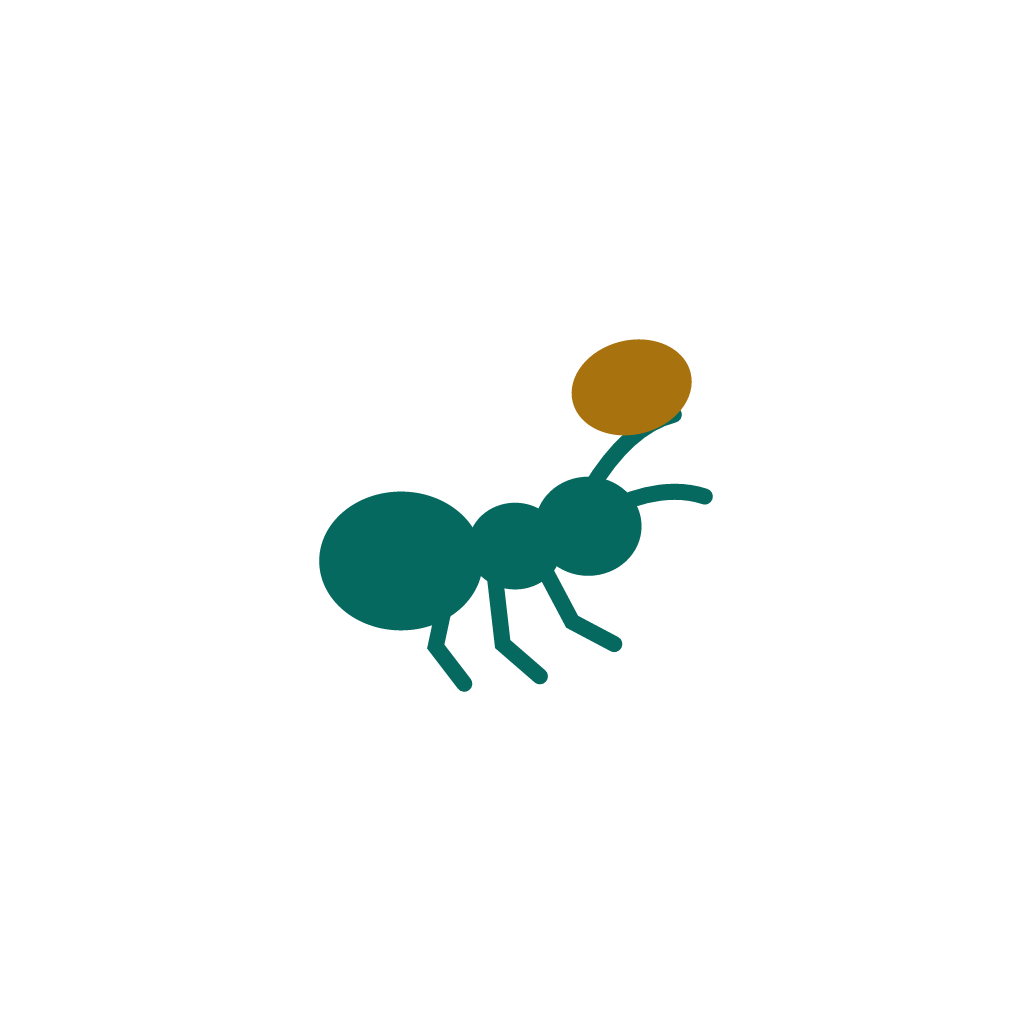
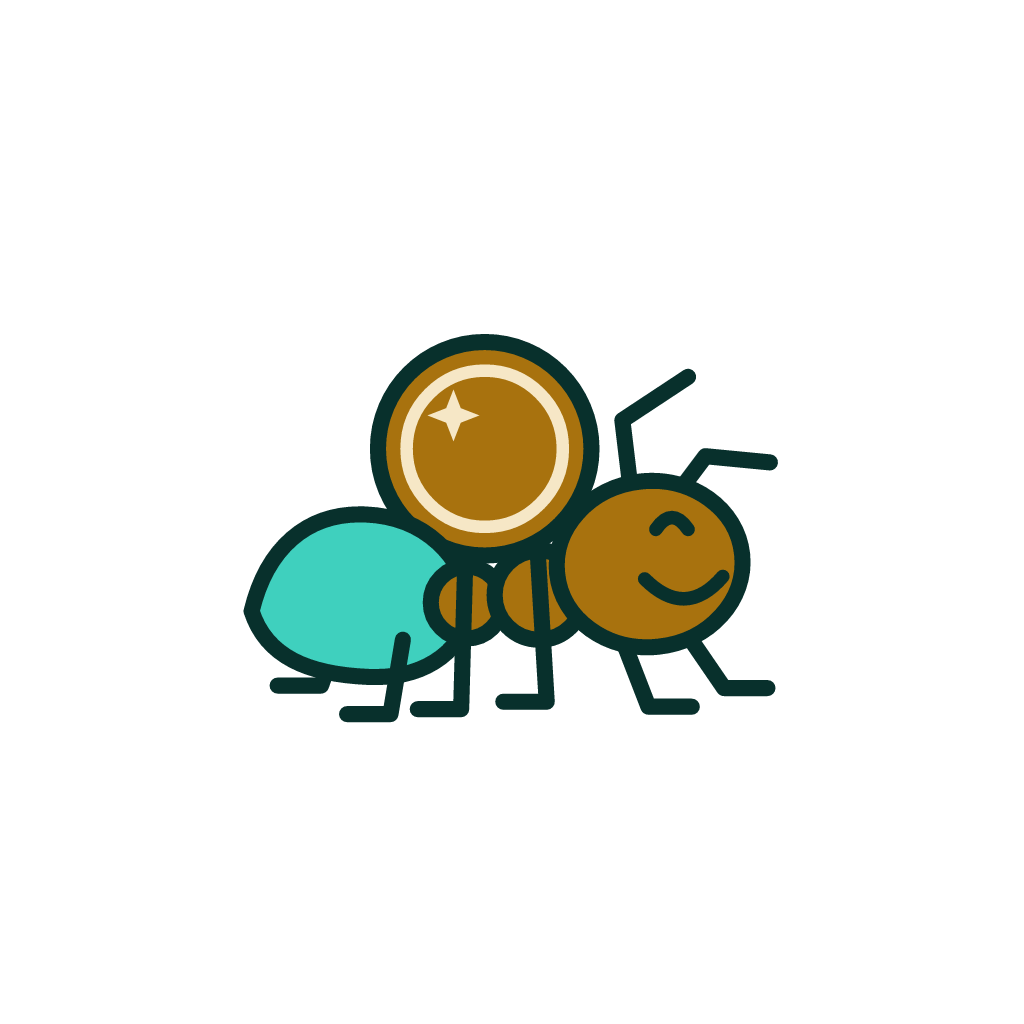
feat(brand): the ant carries a coin now, and looks where it is going
Redrawn from the owner's reference artwork: an outlined side-profile ant
walking right with a euro coin on its back, in the app's palette rather
than the reference's emerald and light gold.

The legs split across the z-order, and the split is the whole trick. The
three middle legs sit on top of the gaster and the nodes, so the joint
shows, which is the one place the reference shows it. The rearmost leg and
both front legs sit behind the body: drawn on top, the rear leg's raised
knee and the gaster's own lower edge close into a triangle that reads as a
letter A, and the front legs poke their stubs through the head's bottom
edge until it stops reading as a head.

The eye and the smile sit well forward, because an ant in profile has one
eye. Set further back the same two arcs read as a face turned towards the
viewer, and then one eye looks like a face missing an eye.

icon-mono.svg is rebuilt around the fact that a single flat colour cannot
express an outline: fill it in and coin, segments, legs and face fuse into
one lump. The ink becomes gaps cut in a mask instead — a ring at the coin's
edge, a left-facing arc on each seam, and the legs that sit on top clipped
to the body so each one grooves the segment it crosses.

Changed region(s): [[0.2188, 0.3125, 0.7812, 0.7188]]

diff --git a/docs/superpowers/specs/2026-09-08-ant-design-language-design.md b/docs/superpowers/specs/2026-09-08-ant-design-language-design.md
@@ -74,17 +74,17 @@ test.
 The branch draws three distinct things with the grain vocabulary, and they are
 not synonyms:
 
-- **The segmented trail form** (`Trail`, and `BudgetBar` on top of it) means *a
-  share of a bounded quantity* — a budget against its limit, a period's spend
+- **The segmented trail form** (`Trail`, and `BudgetBar` on top of it) means _a
+  share of a bounded quantity_ — a budget against its limit, a period's spend
   against its income, a category against the period's expenses, an import's
   rows against the file's rows. None of these are accumulation; they are all
   proportions of something with a fixed size.
-- **The `grain` colour** means *value accumulated over time*, and nothing
+- **The `grain` colour** means _value accumulated over time_, and nothing
   else. Its only user is the dashboard's `GrainRow` of months — a count that
   only grows, one booked month at a time, and never resets or gets spent
   against a limit.
-- **Grains inside a chart** (`ForecastChart`, `BalanceChart`) mean *projected,
-  not booked*. This is carried by shape alone — discrete marks instead of a
+- **Grains inside a chart** (`ForecastChart`, `BalanceChart`) mean _projected,
+  not booked_. This is carried by shape alone — discrete marks instead of a
   continuous fill or line — and each chart keeps its own colours (`income`,
   `expense`, `accent`) so a projection and a booked figure differ in exactly
   one way, not two.
@@ -263,16 +263,83 @@ drawn.
 
 ### The mark
 
-A side-profile ant carrying a single round grain above its head. Three body
-segments, antennae, six legs. Teal `#06695F` on cream `#F2F6F5`.
+A side-profile ant walking right, carrying a gold coin on its back. Leaf-shaped
+gaster, two petiole nodes, head with a closed happy eye and a wide smile, two
+antennae, six legs. Redrawn as vector from reference artwork the owner supplied,
+in the app's palette rather than the reference's emerald and light gold.
 
-Legs are the first detail to disappear at small sizes, so `icon-mono.svg` drops
-them entirely, thickens the body segments, and keeps the grain — the grain is
-what makes the silhouette an ant _saving_ rather than an ant. The simplified
-mark is what the Android monochrome layer uses. It is drawn full-canvas, like
-`icon-mark.svg`; `insetForAdaptive` in `render-icons.ts` scales both marks down
-to 0.62 at render time so the content sits inside the central 66% Android's
-adaptive mask can crop to, rather than the SVG being authored inset itself.
+Colour roles: ochre `#A8720E` is `grain` and fills the coin, the nodes and the
+head — the coin is the same colour the interface uses for value that has been
+accumulated, so what the ant carries is literally the app's grain. `#F6E7C6` is
+`grainSoft`, the coin's inner ring and its glint. The gaster is `#3FD0BE`, the
+dark theme's `accent`.
+
+`#08302C` is the mark's ink and belongs to the mark alone: an outline has to
+hold against the light teal gaster, the ochre head and the cream ground at once,
+and no palette role is dark enough for all three.
+
+Three choices in the drawing are load-bearing, and each was arrived at by
+rendering the alternative and looking at it:
+
+- **The head is ochre, not teal.** An all-teal body merges into a single mass at
+  favicon size; the warm head is what keeps the front of the ant separate from
+  the back at 48px.
+- **The gaster is the light teal, not `#06695F`.** It reads as a distinct body
+  part against the ochre head and the ink outline. This began as a fix for the
+  rearmost leg, which was then drawn across the gaster; that leg now sits behind
+  it, so the light fill is a free choice rather than a forced one.
+- **The eye and the smile are set well forward on the head.** The ant is in
+  profile and looking where it is walking, so one eye is correct. Set further
+  back the same two arcs read as a face turned towards the viewer, and a
+  viewer-facing face with one eye looks like a face missing an eye.
+
+The legs split across the z-order, and the split matters. The three middle legs
+are drawn **on top** of the gaster and the nodes, so the upper part of each one
+shows crossing the segment it hangs from — the one place the reference does show
+the joint.
+
+The other three are drawn **behind** the body, each emerging from under a segment
+whose outline stays unbroken. The rearmost leg has its knee raised high inside
+the gaster; drawn on top, that knee and the gaster's own lower edge close into a
+triangle that reads as a letter A sitting on the ant. The two front legs drawn on
+top instead poke their stubs into the head's fill and cut through its bottom
+edge, and the head stops reading as a head.
+
+Each leg is a right-angle knee and a horizontal foot; the rear feet point
+backwards and the front feet forwards, so the ant reads as walking rather than
+standing.
+
+Stroke weights are floored at 22 on the 1024 canvas — 2.1% — because anything
+thinner closes up at favicon size. The artwork is offset by `translate(-16 -54)`
+so it sits on the optical centre rather than the geometric one, and the coin is
+scaled to 0.84 so the ant, not its load, is the subject.
+
+`icon-mono.svg` is the same mark for Android's monochrome layer, which keeps
+only the alpha channel and tints it a single system colour. The colour mark is
+built from outlined shapes, and an outline is the one thing a single flat colour
+cannot express: filled in, the coin, the segments, the legs and the face all
+fuse into one lump. So in the monochrome file the ink becomes a gap. Every shape
+is filled solid out to the outer edge of its stroke, then the ink is cut back
+out as holes in a mask, in three kinds of cut:
+
+- A full ring at the coin's edge and a second at its inner ring. Outside the
+  overlap these fall on transparent ground and cost nothing.
+- A left-facing arc on each node and on the head, where it meets the segment
+  behind it. Partial on purpose: a full ring would also cut the legs passing
+  underneath and leave them floating.
+- The three middle legs, clipped to the body, so the part of each one that
+  crosses its segment reads as a groove while the part below it stays solid —
+  which is what the outlined colour mark does. The rearmost leg and the two front
+  legs are not cut: they sit behind the body in the colour mark, so there is no
+  groove for them to leave.
+
+The coin's glint is dropped and every stroke is thicker, because this layer is
+composited at launcher size where both would close up.
+
+`icon-mono.svg` is drawn full-canvas, like `icon-mark.svg`; `insetForAdaptive`
+in `render-icons.ts` scales both marks down to 0.62 at render time so the
+content sits inside the central 66% Android's adaptive mask can crop to, rather
+than the SVG being authored inset itself.
 
 ### Rendering
 
@@ -282,13 +349,13 @@ which is a poor build dependency. The script therefore uses `@resvg/resvg-js`,
 added as a **root devDependency**. It is never imported by the app, so the
 project's no-network-at-runtime rule is untouched.
 
-| Output                               | Size | Notes                                   |
-| ------------------------------------ | ---- | --------------------------------------- |
+| Output                               | Size | Notes                                           |
+| ------------------------------------ | ---- | ----------------------------------------------- |
 | `assets/icon.png`                    | 1024 | Opaque. Apple rejects an alpha channel.         |
 | `assets/android-icon-foreground.png` | 1024 | Alpha, inset to 0.62 by `insetForAdaptive`      |
 | `assets/android-icon-background.png` | 1024 | Flat cream `#F2F6F5`                            |
 | `assets/android-icon-monochrome.png` | 1024 | Alpha silhouette, simplified mark, same inset   |
-| `assets/splash-icon.png`             | 1024 |                                                  |
+| `assets/splash-icon.png`             | 1024 |                                                 |
 | `assets/favicon.png`                 | 48   | Full mark on cream, same as `icon.png`, smaller |
 
 `app.json` sets `android.adaptiveIcon.backgroundColor` to the same cream the
